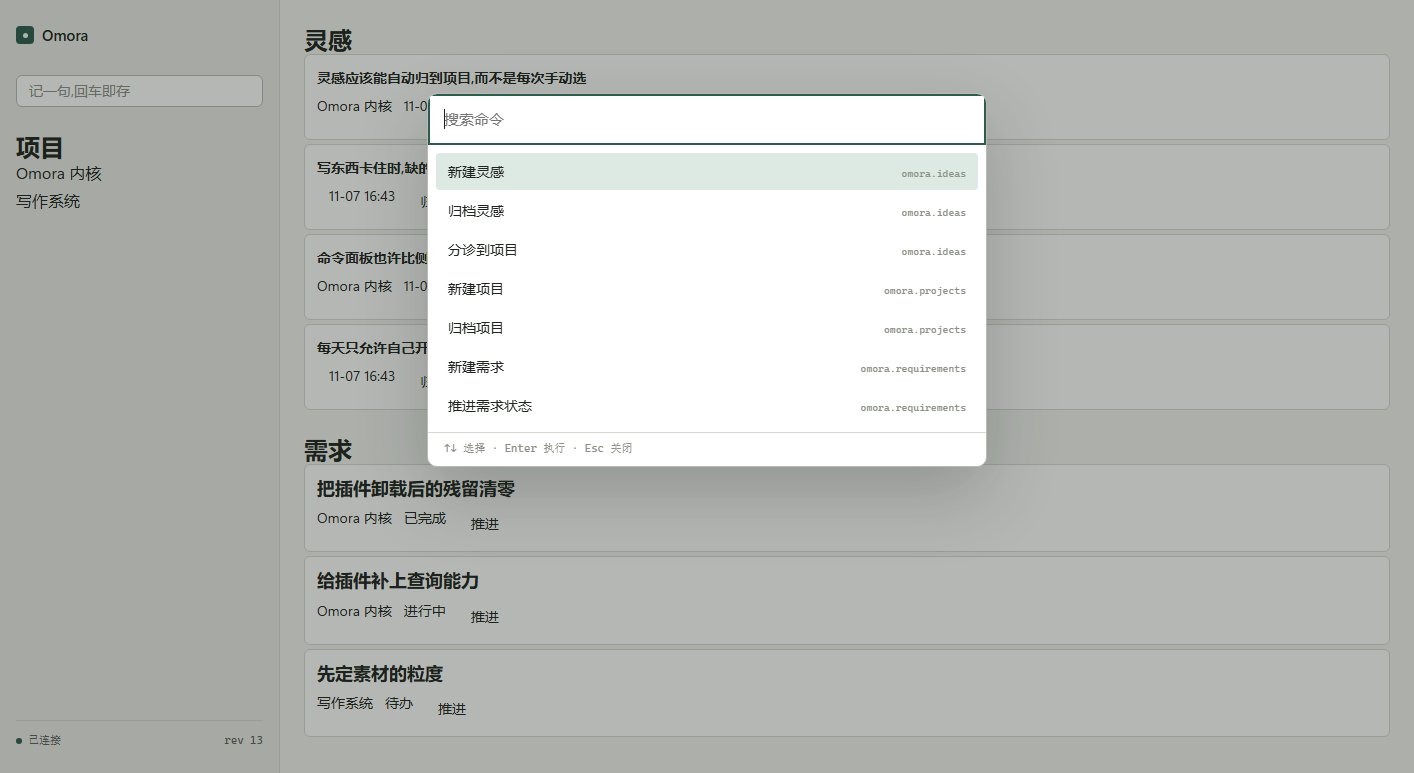
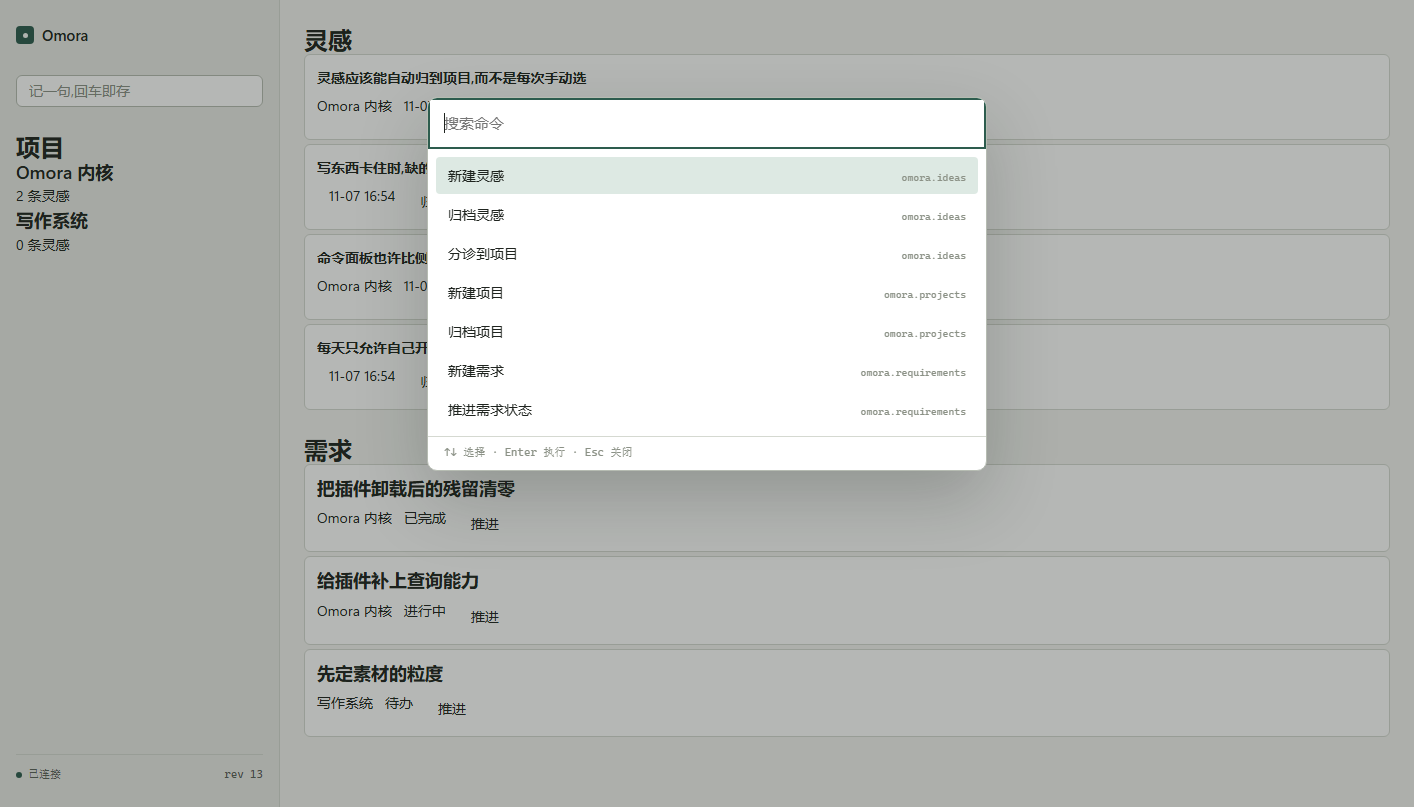
test(accept): 适配多切片事件并校验跨插件投影
验收脚本改为读 updates;新增一条断言:分诊之后项目切片里能看到那条灵感。
顺带补上插件作者指南与最新截图。

diff --git a/scripts/accept_p0.py b/scripts/accept_p0.py
@@ -52,10 +52,19 @@ async def check_command(client: Client, revision: int) -> None:
     await client.call("cmd.invoke", {"name": "ideas.create", "args": {"title": "验收脚本写入"}})
     event = await client.next_event()
     require(cast("int", event.get("revision", 0)) > revision, "命令之后没有收到更大的 revision")
+    updates = event.get("updates")
     require(
-        event.get("owner") == "omora.ideas", f"事件没有归属到 ideas 插件，实际 {event.get('owner')}"
+        isinstance(updates, list) and len(cast("list[Any]", updates)) > 0, "事件没有携带切片更新"
     )
-    state = event.get("state")
+    slices = {
+        cast("dict[str, Any]", update).get("owner"): cast("dict[str, Any]", update).get("state")
+        for update in cast("list[Any]", updates)
+    }
+    require(
+        "omora.ideas" in slices,
+        f"事件没有更新 ideas 的切片，实际 {sorted(str(key) for key in slices)}",
+    )
+    state = slices["omora.ideas"]
     require(isinstance(state, dict), "实时事件没有携带折叠后的切片")
     items = cast("dict[str, Any]", state).get("items")
     require(isinstance(items, list), "切片里没有 items")

diff --git a/scripts/accept_p1.py b/scripts/accept_p1.py
@@ -66,8 +66,11 @@ async def check_loop(client: Client) -> None:
     state = cast("dict[str, Any]", snapshot["state"])
 
     projects = items_of(state, "omora.projects")
+    project_rows = [item for item in projects if item.get("id") == project_id]
+    require(bool(project_rows), "项目没有出现在 projects 切片里")
     require(
-        any(item.get("id") == project_id for item in projects), "项目没有出现在 projects 切片里"
+        project_rows[0].get("ideaCountLabel") == "1 条灵感",
+        "分诊之后项目切片里应该留下这条灵感(跨插件只读共享)",
     )
 
     requirements = items_of(state, "omora.requirements")

diff --git a/docs/plugins/authoring.md b/docs/plugins/authoring.md
@@ -1,0 +1,123 @@
+# 写一个插件
+
+> 目标读者：想给 Omora 加功能的人。读完你应该能写出一个能被人装上的插件，而不是改内核。
+
+## 0. 先理解一件事
+
+**内核不认识你的领域。** 它不知道什么是灵感、项目、需求。它只提供：事件、状态折叠、命令、查询、服务、槽位。
+
+所以插件的工作方式是：你声明事件与折叠规则，内核替你保管状态；你发命令，内核落库并广播事件；你给出节点树，前端渲染。
+
+## 1. 最小插件（能跑）
+
+两个文件：
+
+```
+plugins/hello/
+├─ plugin.json
+└─ src/omora_plugins_hello/__init__.py
+```
+
+`plugin.json`（清单，必须通过 `protocol/c2-manifest.schema.json`）：
+
+```json
+{
+  "id": "hello.notes",
+  "name": "Hello",
+  "version": "0.1.0",
+  "engines": { "omora": "^0.1.0" },
+  "runtime": "python",
+  "entry": "omora_plugins_hello:plugin",
+  "activation": ["onStartup"],
+  "capabilities": ["commands", "events", "ui"],
+  "contributes": {
+    "commands": [{ "id": "hello.add", "title": "记一句" }],
+    "slots": [{ "id": "hello.panel", "slot": "sidebar", "order": 5 }]
+  }
+}
+```
+
+`__init__.py`：
+
+```python
+from omora_sdk import Node, Plugin, PluginContext, card, input_, list_, stack, text
+
+
+class HelloPlugin:
+    async def activate(self, ctx: PluginContext) -> None:
+        ctx.state.register("hello.added", _fold_added)  # 状态怎么长
+        ctx.commands.register("hello.add", _add(ctx))  # 能做什么
+        ctx.ui.contribute("hello.panel", _view)  # 长什么样
+
+    async def deactivate(self) -> None:
+        pass  # 登记项挂在作用域上,宿主卸载时自动回收
+
+
+def _fold_added(state: dict[str, object], data) -> None:
+    items = state.setdefault("items", [])
+    items.append({"text": data.get("text")})
+
+
+def _add(ctx: PluginContext):
+    async def handler(args):
+        await ctx.events.emit("hello.added", {"text": args.get("text", "")})
+        return None
+
+    return handler
+
+
+def _view(state) -> list[Node]:
+    return [
+        stack(
+            [
+                text("最近记录", variant="title"),
+                list_("$items", [card([text("$item.text")])], empty_text="还没有内容"),
+            ]
+        ),
+        input_("写一句", submit="hello.add", args={"text": "$value"}),
+    ]
+
+
+plugin: Plugin = HelloPlugin()
+```
+
+就这些。不需要改内核、不需要问谁要权限。
+
+## 2. 你能用的七样东西
+
+| 能力 | API | 说明 |
+|---|---|---|
+| 命令 | `ctx.commands.register(name, handler)` | 用户或界面触发的动作；handler 是 `async def (args) -> object` |
+| 查询 | `ctx.queries.register(name, handler)` | 只读；必须返回 `{"items": [...]}` |
+| 事件 | `ctx.events.emit / subscribe` | 已发生的事实；跨插件唯一的广播通道 |
+| 状态 | `ctx.state.register / read` | 登记折叠规则；只能读自己的切片 |
+| 界面 | `ctx.ui.contribute(id, view)` | 返回 C3 节点树；view 收到自己的状态切片 |
+| 服务 | `ctx.services.provide / call` | 点对点调用别的插件；对方没装就抛 `E_UNAVAILABLE` |
+| 日志 | `ctx.log.info / warn / error` | 自动按插件归因，不受能力限制 |
+
+还有两个注入的原语：`ctx.ids.next()` 与 `ctx.clock.now()`。**不要用 `uuid4` 或 `datetime.now`**——注入是为了让测试确定。
+
+## 3. 四条硬规则
+
+1. **命令只发事件。** 状态由 reducer 折叠出来，命令不直接改切片。这样重启能重放、跨插件能同步。
+2. **界面是数据。** view 返回节点树（`Stack` / `Text` / `Button` / `Input` / `List` / `Card`），不碰 DOM、不写 CSS，颜色用主题 token。
+3. **只能 import `omora_sdk`。** 不 import 内核、不 import 别的插件。想用别人的能力，走服务。
+4. **声明什么用什么。** 清单里没写的 capability，调用时直接 `E_DENIED`。
+
+## 4. 三个常见坑
+
+| 坑 | 后果 | 正解 |
+|---|---|---|
+| 在 view 里做 IO 或 await | 渲染是同步纯函数，会直接坏 | 数据在 reducer 里折好 |
+| 把状态当全局缓存互相共享 | 卸载留下幽灵数据 | 需要什么就订阅什么，折进自己的切片 |
+| 用 `uuid4` / `datetime.now` | 测试不可重复 | 用注入的 `ctx.ids` / `ctx.clock` |
+
+## 5. 怎么调试
+
+```bash
+uv run python -m omora_kernel --database .omora/dev.sqlite --plugins plugins
+cd web && pnpm dev
+uv run python scripts/accept_p1.py --url ws://127.0.0.1:8765   # 全链路自检
+```
+
+清单写错、引擎不兼容、入口导入失败，宿主会打日志并**跳过**这个插件，不会让整个内核崩掉——先看内核日志第一位。
